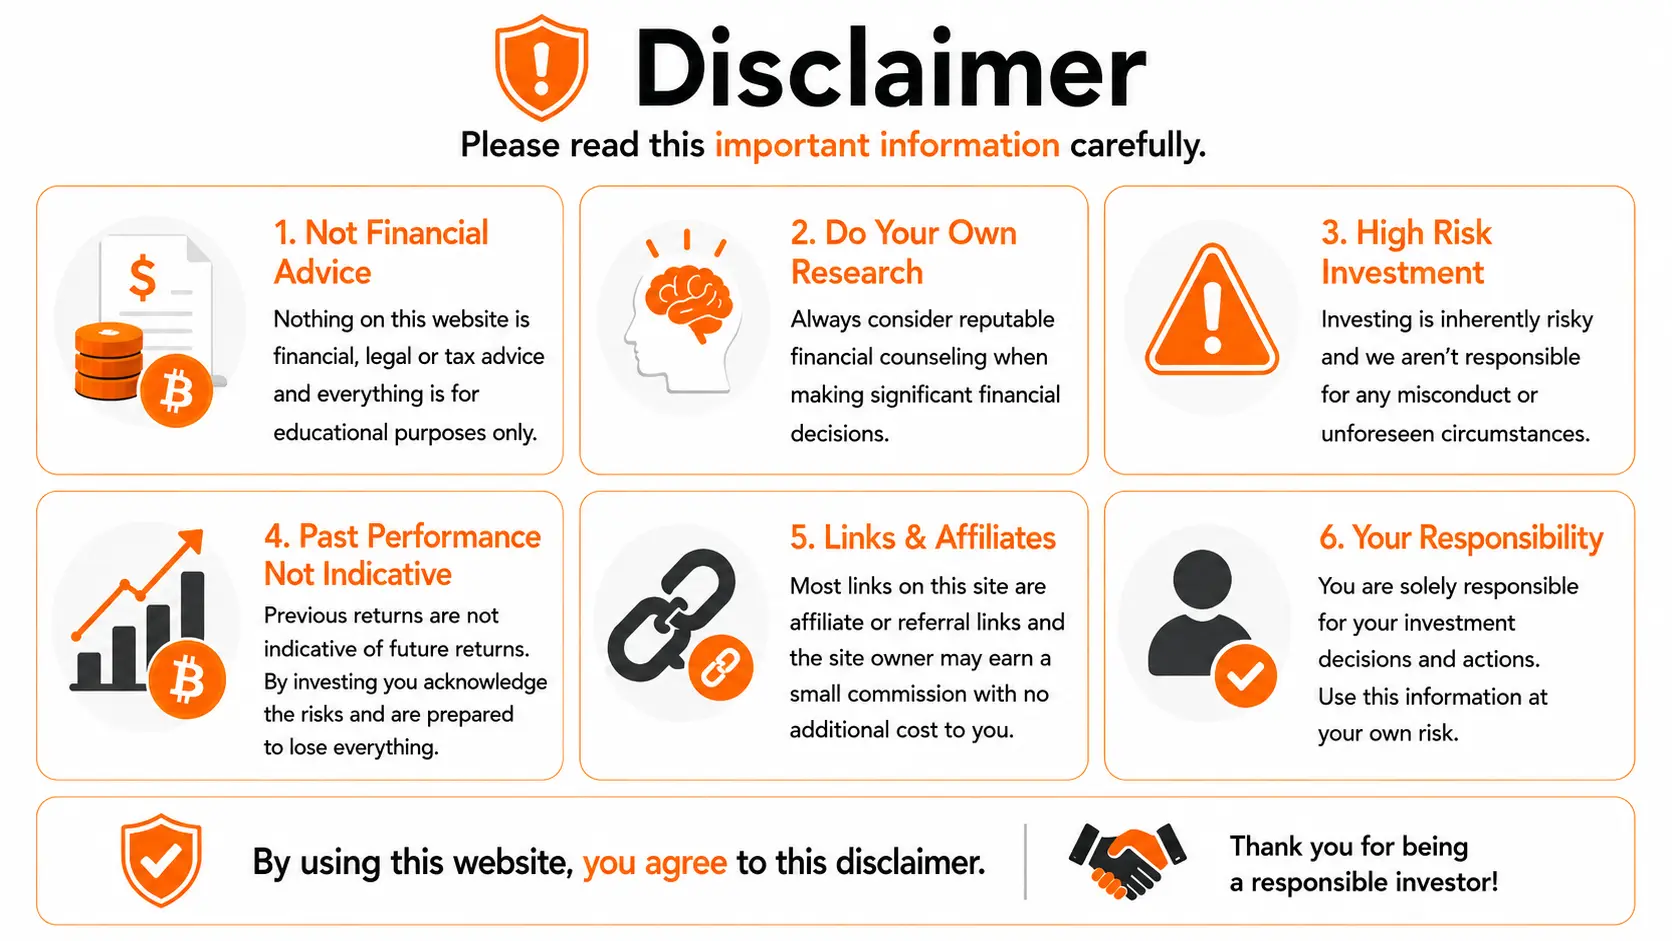
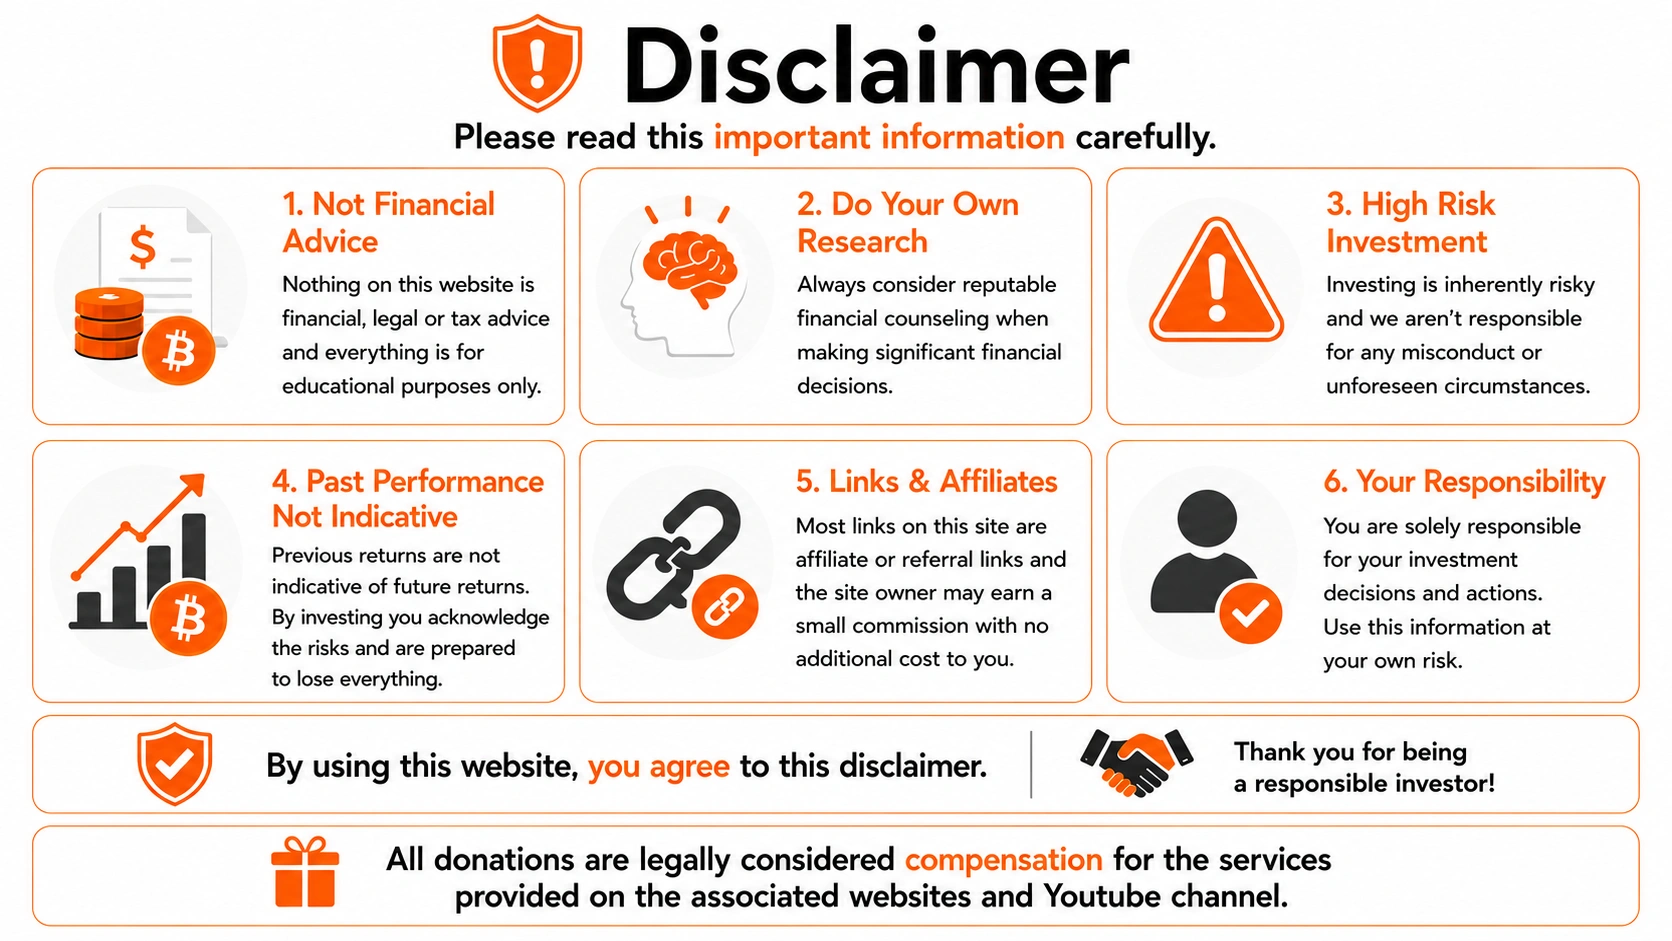
Add files via upload

Changed region(s): [[0.0, 0.0, 0.9952, 0.9862], [0.9641, 0.6472, 0.9952, 0.678]]

diff --git a/guide.html b/guide.html
@@ -285,11 +285,12 @@
 
         <p>
 
-            Nothing on this website is financial, legal or tax advice and is for educational purposes only. <br><br>
-            Always consider reputable financial counseling when making significant financial decisions. <br><br>
-            Investing is inherently risky and we aren't responsible for any misconduct or unforeseen circumstances. <br><br>
-            Previous returns are not indicative of future returns. By investing you acknowledge the risks and are prepared to lose everything. <br><br>
-            Most links on this site are affiliate or referral links and the site owner may earn a small commission with no extra cost to you.
+            <b>Nothing on this website is financial, legal or tax advice and is for educational purposes only.</b> <br><br>
+            <b>Always consider reputable financial counseling when making significant financial decisions.</b> <br><br>
+            <b>Investing is inherently risky and we aren't responsible for any misconduct or unforeseen circumstances.</b> <br><br>
+            <b>Previous returns are not indicative of future returns. By investing you acknowledge the risks and are prepared to lose everything.</b> <br><br>
+            <b>Most links on this site are affiliate or referral links and the site owner may earn a small commission with no extra cost to you.</b> <br><br>
+            <b>All donations are legally considered compensation for the services provided on the associated websites and Youtube channel.</b>
             
         </p>
 